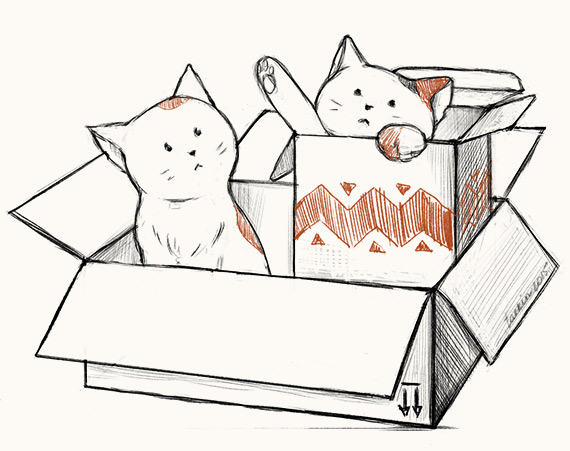
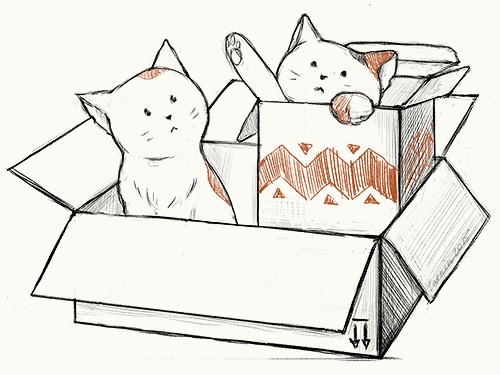
Resized and fixed picture

Changed region(s): [[0.0, 0.0293, 0.99, 0.968], [0.06, 0.6453, 0.27, 0.8213], [0.27, 0.2933, 0.3, 0.3813]]

diff --git a/_posts/fun/2015-02-10-nested-links.md b/_posts/fun/2015-02-10-nested-links.md
@@ -15,7 +15,7 @@ thanks_to:
 
 # Вложенные ссылки
 
-![Котики играют во вложенные ссылки](/pictures/nested-links.jpg){:.b-figure .b-figure_outer width="570" height="451"}
+![Котики играют во вложенные ссылки](/pictures/nested-links.jpg){:.b-figure .b-figure_outer width="500" height="375"}
 
 
 ## Проблема

diff --git a/_posts/en/fun/2015-02-10-nested-links.md b/_posts/en/fun/2015-02-10-nested-links.md
@@ -15,7 +15,7 @@ thanks_to:
 
 # Nested links
 
-![Cats playing nested links](/pictures/nested-links.jpg){:.b-figure .b-figure_outer width="570" height="451"}
+![Cats playing nested links](/pictures/nested-links.jpg){:.b-figure .b-figure_outer width="500" height="375"}
 
 
 ## The problem
